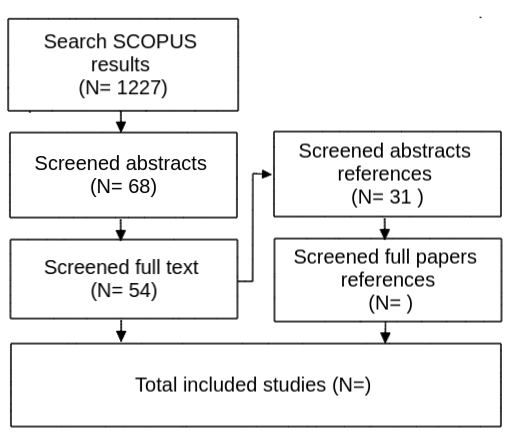
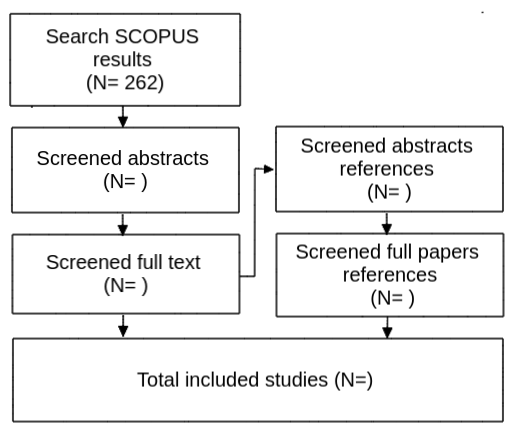
update

Changed region(s): [[0.0, 0.03, 1.0, 0.9885], [0.2647, 0.8387, 0.7353, 0.9286]]

diff --git a/README.md b/README.md
@@ -1,17 +1,16 @@
-Active Travel and Road Lighting: A Review
+Cycling and Road Lighting: A Review
 ================
 
 # Abstract
 
-Background: A large body of evidence shows that darkness discourages
-people from walking and cycling. This is mostly due to a higher
-perceived danger of pedestrians and cyclists at night from motorised
-traffic or some other type of violence. This may disproportionately
-affect women, the elderly, and disadvantaged groups.
+Background: Evidence shows that darkness discourages people from
+cycling. This is mostly due to a higher perceived danger of cyclists at
+night from motorised traffic or some other type of violence. This may
+disproportionately affect women, the elderly, and disadvantaged groups.
 
 Aim: This paper provides a review on the scientific literature that
-intersects between active travel and road lighting to better understand
-the relationship between both factors.
+intersects between cycling and road lighting to better understand the
+relationship between both terms.
 
 Method: We used a hybrid systematic and snowballing method. TBC studies
 on several disciplines such as transportation, public health, road
@@ -24,62 +23,45 @@ Conclusion:
 
 # Introduction
 
-Benefits of active travel are well established in the literature. Active
-travel (i.e. walking, cycling, and wheeling) improves physical, mental,
-and social health; reduces pollution, carbon emissions, and congestion;
-and it is more inclusive than private motorised modes, reducing
-inequalities.
+Benefits of cycling are well established in the literature. Cycling
+improves physical, mental, and social health; reduces pollution, carbon
+emissions, and congestion; and it is more inclusive than private
+motorised modes, reducing inequalities.
 
 Many variables (individual, social, and environmental) can affect an
-individual’s decision to travel by active modes, including by walking,
-cycling, and wheeling (meaning by non-powered mobility devices, scooters
-and other wheeled human powered vehicles).
+individual’s decision to cycle.
 
-Darkness is one of the environmental factors that most affect walking
-and cycling. Less studied has been the influence of darkness on
-wheeling, although we can assume that darkness is a major barrier to
-wheeling because people who rely on wheeled mobility are among the most
-vulnerable in society[^1].
-
+Darkness is one of the environmental factors that most affect cycling.
 Previous academic literature reviews have touched on elements of the
-relationship between active travel and lighting. Cozens et al. (2003)
-explored papers on the association between street lighting and crime or
-fear of crime; S. Fotios and Castleton (2017) reviewed suggested
-interventions to enable cycling lighting to contribute to the safety of
-cyclists in the UK; Peter R. Boyce (2019) reviewed research into the
-benefits of light at night for perceptions of safety; and several
-reviews looked at studies on the appropriate lighting for pedestrians’
-reassurance (S. Fotios, Unwin, and Farrall 2015; Fotios, S and Cheal, C.
-2010; Steve Fotios and Castleton 2016). However, to the best of our
-knowledge, no academic paper has reviewed the international literature
-available on the intersection between both terms, active travel and road
-lighting.
+relationship between cycling and lighting.
 
+<!-- @cozens_critical_2003 explored papers on the association between street lighting and crime or fear of crime; @fotios_lighting_2017 reviewed suggested interventions to enable cycling lighting to contribute to the safety of cyclists in the UK; @boyce_benefits_2019 reviewed research into the benefits of light at night for perceptions of safety; and several reviews looked at studies on the appropriate lighting for pedestrians' reassurance [@fotios_road_2015; @fotios_s_road_2010; @fotios_specifying_2016]. -->
+<!-- However, to the best of our knowledge, no academic paper has reviewed the international literature available on the intersection between both terms, active travel and road lighting. -->
 <!-- A systematic literature review of pedestrians’ response to outdoor lighting. -->
 
 This paper aims to fill this gap in the literature, reviewing published
-research specifically focussed at the intersection between active travel
-and road lighting.
+research specifically focussed at the intersection between cycling and
+road lighting.
 
 The review is guided by the following questions:
 
-1.  To what extent does darkness influence active travel behaviour?
+1.  To what extent does darkness influence cycling behaviour?
 
 2.  To what extent does darkness increase the risk of road collision
-    among active travellers?
+    among cyclists?
 
 3.  To what extent does darkness increase the risk of being a victim of
-    crime among active travellers?
+    crime among cyclists?
 
-4.  Is the association between active travel and darkness the same
-    between different groups?
+4.  Is the association between cycling and darkness the same between
+    different groups?
 
-5.  What type of road lighting is the most suitable for active travel to
+5.  What type of road lighting is the most suitable for cycling to
     increase and be safer?
 
 We focus on road and/or ambient lighting, excluding studies on lighting
-equipment for pedestrians or cyclists, such as reflective clothing or
-bicycle-mounted lights.
+equipment for cyclists, such as reflective clothing or bicycle-mounted
+lights.
 
 The review is organized as follows. Section 2 describes the method.
 Section 3 presents the findings of the papers reviewed. Section 4
@@ -93,32 +75,28 @@ Section 5 closes the work with the conclusions.
 <!-- For completeness, separate smaller searches and snowballing were applied for the theoretical review as well as when the researchers were aware that a body of literature existed, but our systematic search had not picked up on it.  -->
 
 We used a hybrid systematic and snowballing method. First, we searched
-in the SCOPUS electronic databased (on 11 Oct 2022) for studies
-investigating the relationship between active travel and road lighting.
-We searched for papers from 2000 to present. The query string used for
-the search was as follows:
+in the SCOPUS electronic databased (on 15 November 2022) for studies
+investigating the relationship between cycling and road lighting. The
+query string used for the search was as follows:
 
-*walk\* OR foot OR pedestrian\* OR bicycl\* OR bik\* OR cycling OR
-cyclist\* OR “cycle hire” OR wheel\* OR scooter\* OR “active commut\*”
-OR “active transport\*” OR “active travel\*” OR “ecological commut\*” OR
-“ecological transport\*” OR “ecological travel\*” OR “green\* commut\*”
-OR “green transport\*” OR “green travel\*” OR greenway\*) AND (“city
-light\*” OR “public light\*” OR “road light\*” OR “road illumination” OR
-“street light\*” OR “street lamp\*” OR “lamp post\*” OR “light post\*”
-OR “light pole\*”*
+*bicycl\* OR bik\* OR cycling OR cyclist\* OR “cycle hire”) AND (“city
+light\*” OR “public light\*” OR “road light\*” OR “street light\*” or
+“city illumination” OR “public illumination” OR “road illumination” OR
+“street illumination” OR “city lamp\*” OR “public lamp\*” OR “road
+lamp\*” OR “street lamp\*” OR “lamp post\*” OR “light post\*” OR “light
+pole\*”*
 
 This search, based on the content of the title, abstract, and keywords,
-resulted in 1227 records. After screening abstracts and full text, 54
-studies were selected. We excluded papers that did not focus on active
-travel and road lighting (many studies mentioned active travel and
-lighting in passing but not as the topic of the paper). We excluded six
-papers that could not be accessed.
+resulted in 262 records. After screening abstracts and full text, TBC
+studies were selected. We excluded papers that did not focus on cycling
+and road lighting (many studies mentioned cycling and lighting in
+passing but not as the topic of the paper).
+<!-- We excluded six papers that could not be accessed. -->
 
 In the second stage, we checked the references from the studies selected
 (i.e. snowball technique), and after screening abstracts and full texts,
-TBC additional papers were selected. In total, TBC were reviewed. All
-studies were in English languages and from 2000 up to 2022. A flow chart
-of included studies is shown in Figure 1.
+TBC additional papers were selected. In total, TBC were reviewed. A flow
+chart of included studies is shown in Figure 1.
 
 <!-- Papers not accessible:  -->
 
@@ -140,6 +118,10 @@ of included studies is shown in Figure 1.
 <!-- Other parameters for scope? -->
 <!-- ## Data extraction -->
 <!-- From the included studies, we extracted information regarding: location of study, methodology, active travel uptake and lighting measurements, mode, sign of association, and authors and year. -->
+
+|                                                                   |
+|-------------------------------------------------------------------|
+| Carry on with the update with only ‘cycling’ from here to the end |
 
 # Results
 
@@ -1636,16 +1618,16 @@ their routes? Do they change their mode of transport?
 
 ## Research gaps
 
--   Lack of research in developing countries
+- Lack of research in developing countries
 
--   No research on wheeling and lighting
+- No research on wheeling and lighting
 
--   Methodological inconsistencies (see Loukaitou-Sideris (2006))
+- Methodological inconsistencies (see Loukaitou-Sideris (2006))
 
 ## Strenghts and limitations
 
--   Systematic but selection of papers we subjectively found more
-    relevant. So there is more literature on this topic not reviewed.
+- Systematic but selection of papers we subjectively found more
+  relevant. So there is more literature on this topic not reviewed.
 
 # Conclusions
 
@@ -2170,12 +2152,3 @@ and Safety Promotion* 27 (3): 300–307.
 </div>
 
 </div>
-
-[^1]: The annual [Disability &
-    Cycling](https://wheelsforwellbeing.org.uk/wp-content/uploads/2022/05/Disability-and-Cycling-Report-of-2021-national-survey-results.pdf)
-    report by the charity Wheels for Wellbeing, for example, highlights
-    the importance of mobility and active modes for disabled people. The
-    report states that cycling “provides a sense of protection for those
-    whose disability renders them visible and vulnerable when on foot”
-    but does not discuss the impacts of darkness or lighting on feelings
-    of vulnerability, reflecting gaps in the academic literature.
